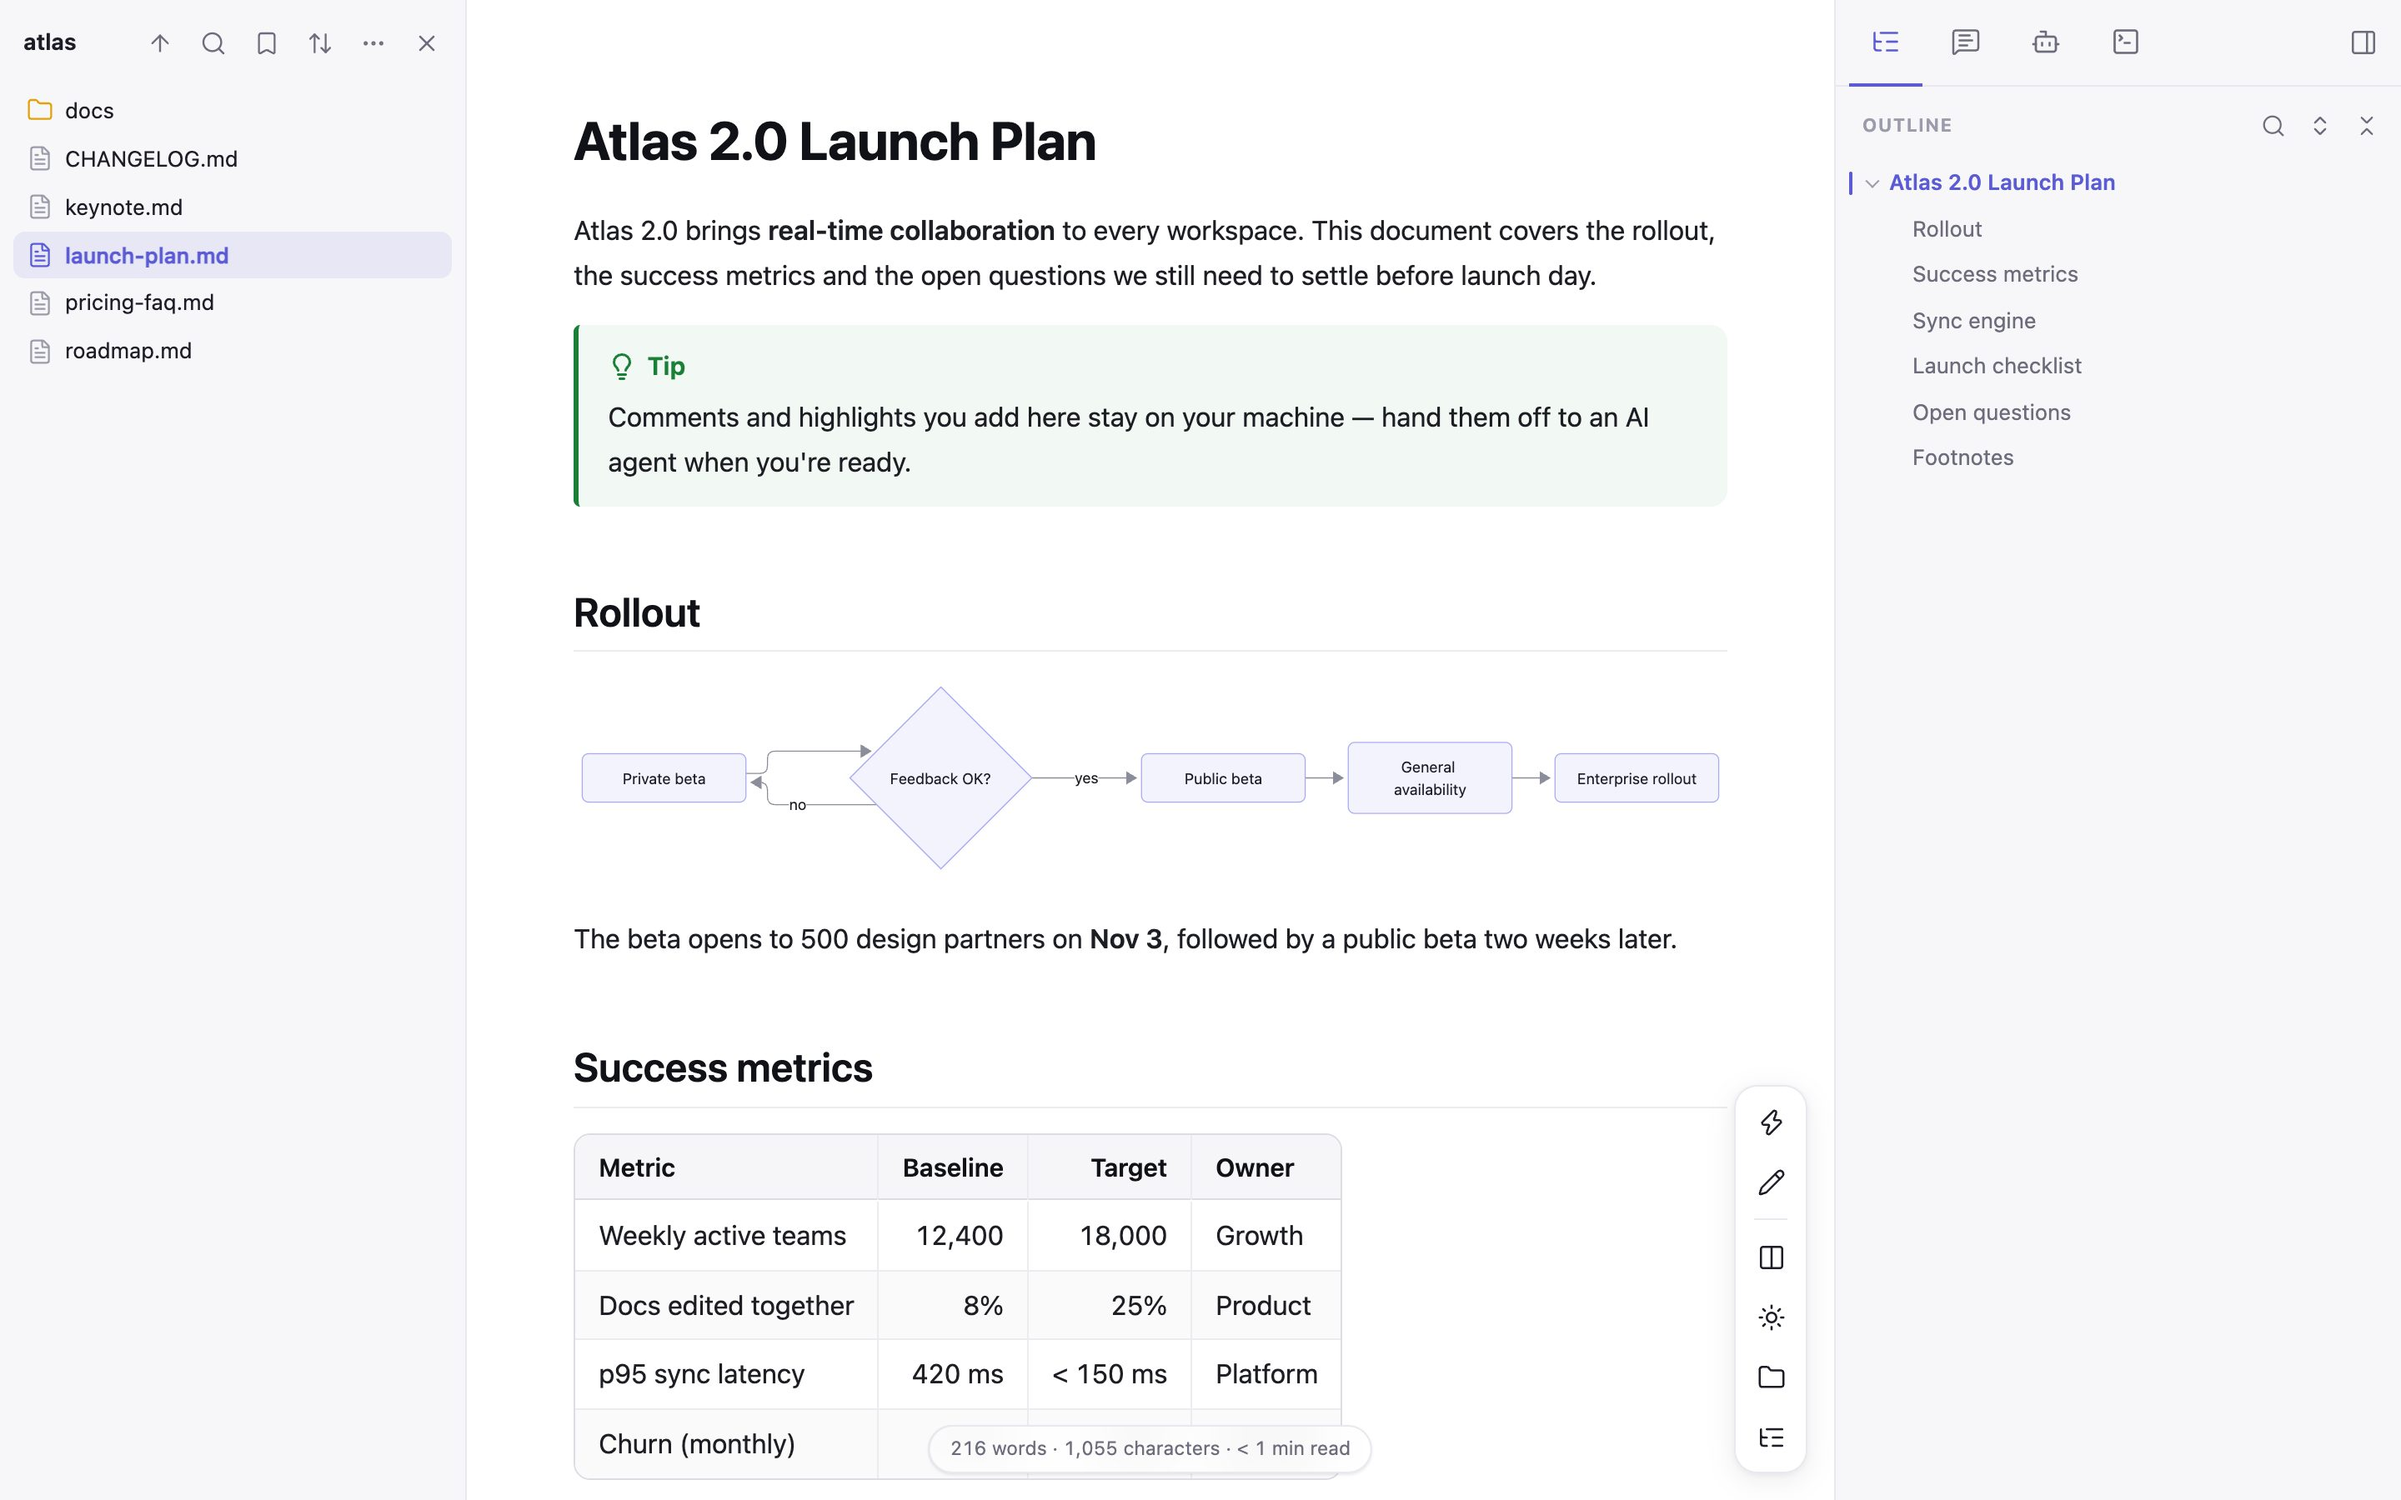
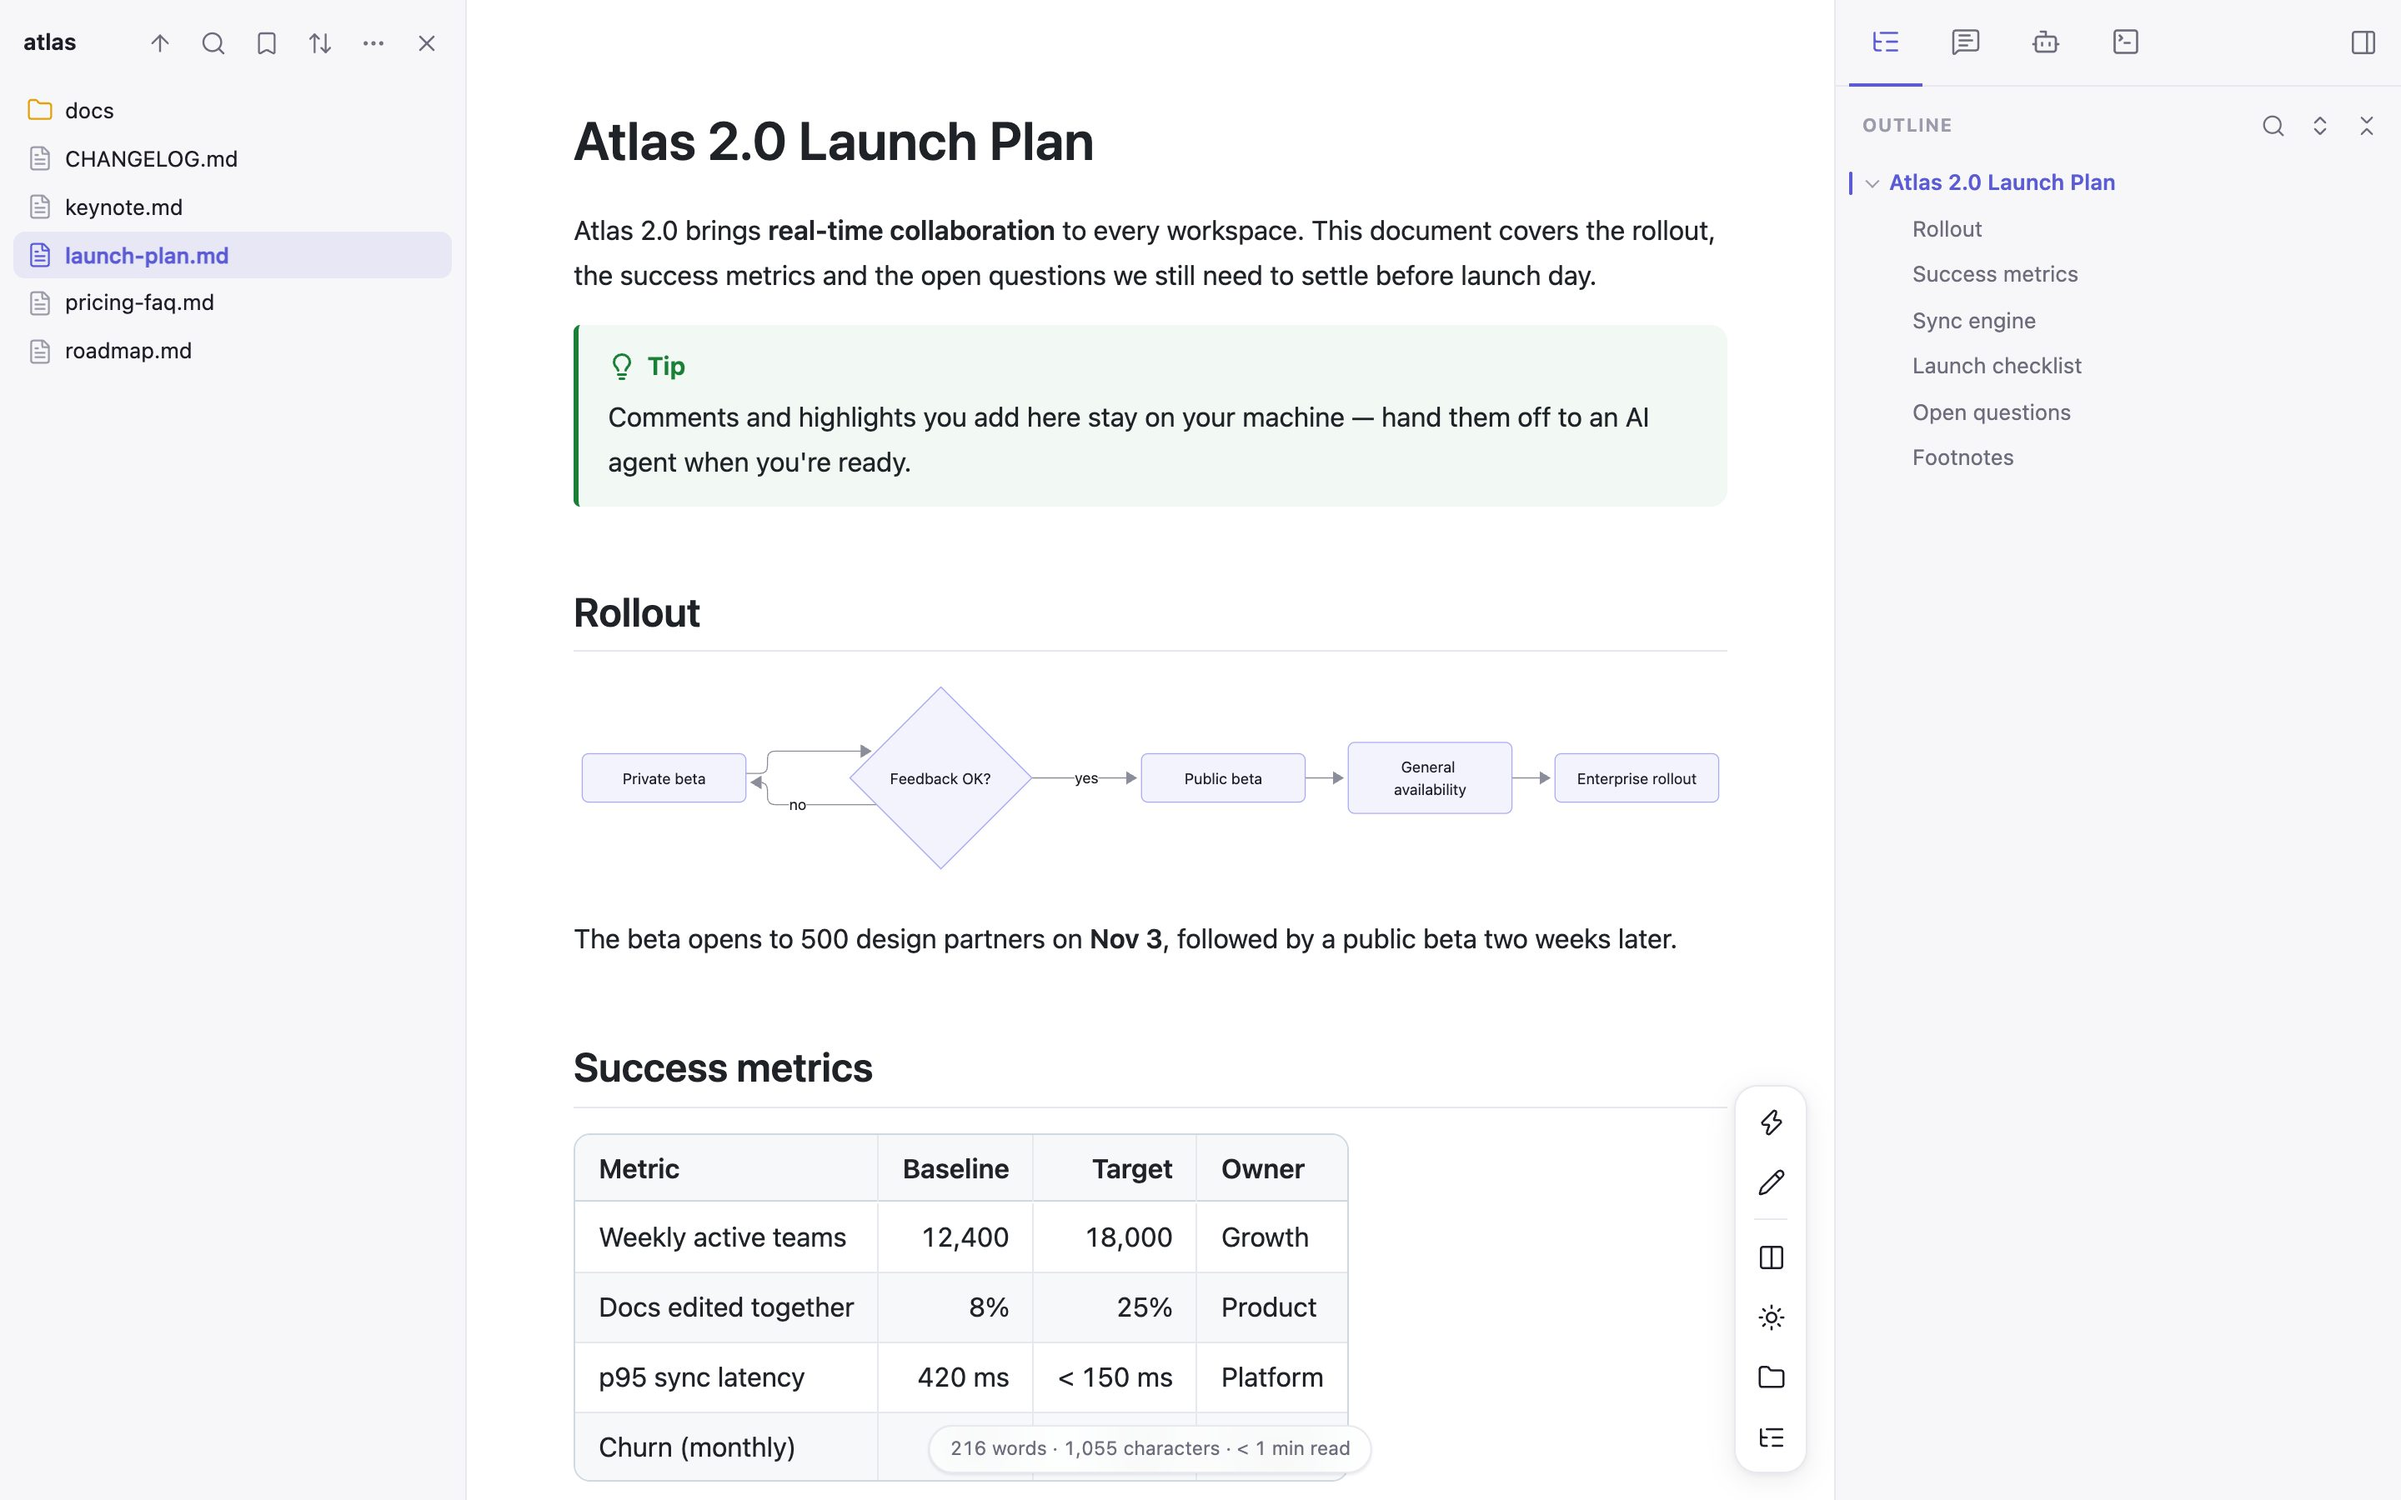
Restore the original preview palette
Headings back to body colour and weight, links and dark background back to
the previous values; table, alert and Mermaid styles use the same palette.

diff --git a/src/viewer/content.css b/src/viewer/content.css
@@ -5,20 +5,19 @@
 :root[data-theme='light'],
 .present[data-theme='light'] {
   --bg: #ffffff;
-  --fg: #1d1e24;
-  --heading: #111218;
-  --muted: #62646f;
-  --border: #dcdde3;
-  --border-soft: #ebecf0;
-  --code-bg: #f7f7f9;
-  --inline-code-bg: rgba(110, 112, 140, 0.11);
-  --link: #4f46e5;
-  --mark: #fff3b0;
-  --quote: #555763;
-  --table-stripe: #fafafb;
-  --table-head: #f6f6f8;
-  --md-accent: #5b5bd6;
-  --note: #2f6fdf;
+  --fg: #1f2328;
+  --muted: #59636e;
+  --border: #d1d9e0;
+  --border-soft: #e5e9ee;
+  --code-bg: #f6f8fa;
+  --inline-code-bg: rgba(129, 139, 152, 0.14);
+  --link: #0969da;
+  --mark: #fff8c5;
+  --quote: #59636e;
+  --table-stripe: #f6f8fa;
+  --table-head: #f6f8fa;
+  --md-accent: #0969da;
+  --note: #0969da;
   --tip: #1a7f37;
   --important: #8250df;
   --warning: #9a6700;
@@ -44,21 +43,20 @@
 :root[data-theme='dark'],
 .present[data-theme='dark'],
 .present[data-theme='night'] {
-  --bg: #141419;
-  --fg: #e6e6ec;
-  --heading: #f4f4f8;
-  --muted: #a0a0ae;
-  --border: #33333e;
-  --border-soft: #26262f;
-  --code-bg: #1a1a21;
-  --inline-code-bg: rgba(160, 160, 190, 0.13);
-  --link: #a5a6ff;
-  --mark: rgba(214, 160, 30, 0.32);
-  --quote: #a8a8b6;
-  --table-stripe: #17171d;
-  --table-head: #1b1b22;
-  --md-accent: #8b8cf8;
-  --note: #6ea8fe;
+  --bg: #0d1117;
+  --fg: #e6edf3;
+  --muted: #9198a1;
+  --border: #3d444d;
+  --border-soft: #2a3038;
+  --code-bg: #151b23;
+  --inline-code-bg: rgba(101, 108, 118, 0.25);
+  --link: #4493f8;
+  --mark: rgba(187, 128, 9, 0.35);
+  --quote: #9198a1;
+  --table-stripe: #151b23;
+  --table-head: #151b23;
+  --md-accent: #4493f8;
+  --note: #4493f8;
   --tip: #3fb950;
   --important: #ab7df8;
   --warning: #d29922;
@@ -83,14 +81,13 @@
   --muted: #7a6a55;
   --border: #dccfb6;
   --border-soft: #e8dcc6;
-  --heading: #2e2418;
   --code-bg: #f0e6d2;
   --inline-code-bg: rgba(120, 90, 50, 0.12);
   --link: #9c4a12;
   --mark: #f5dd8c;
   --quote: #7a6a55;
-  --table-stripe: #f4ecdc;
-  --table-head: #efe5d1;
+  --table-stripe: #f2e9d7;
+  --table-head: #f2e9d7;
   --md-accent: #9c4a12;
   --hl-keyword: #a3301f;
   --hl-string: #4d6a1e;
@@ -101,7 +98,7 @@
   --hl-built: #a05a00;
 }
 
-.present[data-theme='night'] { --bg: #111827; --fg: #f3f4f6; --heading: #f9fafb; --link: #fbbf24; --md-accent: #fbbf24; --code-bg: #1f2937; --border-soft: #374151; }
+.present[data-theme='night'] { --bg: #111827; --fg: #f3f4f6; --link: #fbbf24; --md-accent: #fbbf24; --code-bg: #1f2937; --border-soft: #374151; }
 
 :root[data-font='sans'] { --content-font: 'Helvetica Neue', Helvetica, Arial, 'PingFang SC', 'Microsoft YaHei', sans-serif; }
 :root[data-font='serif'] { --content-font: 'Iowan Old Style', 'Palatino Linotype', Palatino, Georgia, 'Songti SC', 'Noto Serif CJK SC', 'Noto Serif', serif; }
@@ -129,12 +126,11 @@
 
 .markdown-body h1, .markdown-body h2, .markdown-body h3, .markdown-body h4, .markdown-body h5, .markdown-body h6 {
   margin: 1.9em 0 0.65em;
-  color: var(--heading, var(--fg));
   font-weight: 600;
   line-height: 1.3;
   scroll-margin-top: 16px;
 }
-.markdown-body h1 { font-size: 2em; font-weight: 700; line-height: 1.25; letter-spacing: -0.01em; }
+.markdown-body h1 { font-size: 2em; line-height: 1.25; }
 .markdown-body h2 { font-size: 1.5em; margin-top: 2em; padding-bottom: 0.3em; border-bottom: 1px solid var(--border-soft); }
 .markdown-body h3 { font-size: 1.22em; }
 .markdown-body h4 { font-size: 1.04em; }
@@ -194,7 +190,7 @@
 .markdown-body thead th { position: sticky; top: 0; z-index: 1; background: var(--table-head, var(--bg)); box-shadow: inset 0 -1px 0 var(--border); }
 .markdown-body .table-wrap.wide thead th { position: static; }
 .markdown-body table { border-spacing: 0; border-collapse: separate; width: max-content; max-width: 100%; border: 1px solid var(--border); border-radius: 10px; font-variant-numeric: tabular-nums; }
-.markdown-body table th { font-weight: 600; font-size: 0.94em; color: var(--heading, var(--fg)); }
+.markdown-body table th { font-weight: 600; }
 .markdown-body table th, .markdown-body table td { padding: 8px 14px; border: 0; line-height: 1.55; }
 .markdown-body table tbody tr + tr td { border-top: 1px solid var(--border-soft); }
 .markdown-body table :is(th, td) + :is(th, td) { border-left: 1px solid var(--border-soft); }

diff --git a/src/viewer/diagrams.js b/src/viewer/diagrams.js
@@ -21,10 +21,10 @@ const MERMAID_THEME = {
     noteBkgColor: '#fff8db', noteBorderColor: '#ecd690', noteTextColor: '#3d3f4a',
   },
   dark: {
-    darkMode: true, background: '#141419', mainBkg: '#202036', nodeBorder: '#5b5cc8', primaryColor: '#202036', primaryBorderColor: '#5b5cc8', primaryTextColor: '#e6e6ee',
-    secondaryColor: '#18281f', secondaryBorderColor: '#3f8a5f', tertiaryColor: '#1b1b22', tertiaryBorderColor: '#33333e',
-    lineColor: '#7c7c8e', textColor: '#c9c9d4', edgeLabelBackground: '#141419', clusterBkg: '#17171d', clusterBorder: '#33333e',
-    noteBkgColor: '#2a2618', noteBorderColor: '#6b5a24', noteTextColor: '#dfdfe6',
+    darkMode: true, background: '#0d1117', mainBkg: '#1b2030', nodeBorder: '#4a5578', primaryColor: '#1b2030', primaryBorderColor: '#4a5578', primaryTextColor: '#e6edf3',
+    secondaryColor: '#18281f', secondaryBorderColor: '#3f8a5f', tertiaryColor: '#151b23', tertiaryBorderColor: '#3d444d',
+    lineColor: '#768390', textColor: '#c9d1d9', edgeLabelBackground: '#0d1117', clusterBkg: '#151b23', clusterBorder: '#3d444d',
+    noteBkgColor: '#2a2618', noteBorderColor: '#6b5a24', noteTextColor: '#e6edf3',
   },
 };
 
